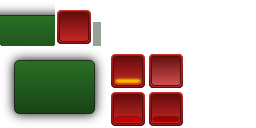
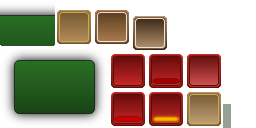
FEATURE: skinned ui for each board

diff --git a/GnuBackgammon/src/it/alcacoop/backgammon/layers/GameScreen.java b/GnuBackgammon/src/it/alcacoop/backgammon/layers/GameScreen.java
@@ -55,6 +55,7 @@ import com.badlogic.gdx.scenes.scene2d.ui.Image;
 import com.badlogic.gdx.scenes.scene2d.ui.ImageButton;
 import com.badlogic.gdx.scenes.scene2d.ui.ImageButton.ImageButtonStyle;
 import com.badlogic.gdx.scenes.scene2d.ui.Table;
+import com.badlogic.gdx.scenes.scene2d.ui.TextButton.TextButtonStyle;
 import com.badlogic.gdx.scenes.scene2d.utils.ClickListener;
 import com.badlogic.gdx.scenes.scene2d.utils.TextureRegionDrawable;
 
@@ -69,6 +70,7 @@ public class GameScreen implements Screen {
   private PlayerInfo pInfo[];
   private GameMenuPopup menuPopup;
   private ImageButton menu;
+  private TextureRegionDrawable wheel;
 
   
   public GameScreen(){
@@ -111,13 +113,14 @@ public class GameScreen implements Screen {
     stage.addActor(table);
     
     menuPopup = new GameMenuPopup(stage);
+    wheel = new TextureRegionDrawable(GnuBackgammon.atlas.findRegion("wheel")); 
     
     ImageButtonStyle ibs = new ImageButtonStyle(
         GnuBackgammon.skin.getDrawable("button"),
         GnuBackgammon.skin.getDrawable("button-down"),
         null,
-        new TextureRegionDrawable(GnuBackgammon.atlas.findRegion("wheel")),
-        new TextureRegionDrawable(GnuBackgammon.atlas.findRegion("wheel")),
+        wheel,
+        wheel,
         null
     );
     
@@ -239,11 +242,23 @@ public class GameScreen implements Screen {
     String sBoard = GnuBackgammon.Instance.appearencePrefs.getString("BOARD", "B1");
     GnuBackgammon.atlas.findRegion("board").setRegion(GnuBackgammon.atlas.findRegion(sBoard));
     GnuBackgammon.atlas.findRegion("boardbg").setRegion(GnuBackgammon.atlas.findRegion(sBoard+"-BG"));
+    board.rollBtn.setStyle(GnuBackgammon.skin.get("button-"+sBoard, TextButtonStyle.class));
+    board.doubleBtn.setStyle(GnuBackgammon.skin.get("button-"+sBoard, TextButtonStyle.class));
+    menuPopup.setButtonsStyle(sBoard);
     String sCs = GnuBackgammon.Instance.appearencePrefs.getString("CHECKERS", "CS1");
     System.out.println(sCs);
     GnuBackgammon.atlas.findRegion("cb").setRegion(GnuBackgammon.atlas.findRegion(sCs+"-B"));
     GnuBackgammon.atlas.findRegion("cw").setRegion(GnuBackgammon.atlas.findRegion(sCs+"-W"));
     GnuBackgammon.atlas.findRegion("ch").setRegion(GnuBackgammon.atlas.findRegion(sCs+"-H"));
+    ImageButtonStyle ibs = new ImageButtonStyle(
+        GnuBackgammon.skin.getDrawable("button"+sBoard.charAt(1)),
+        GnuBackgammon.skin.getDrawable("button"+sBoard.charAt(1)+"-down"),
+        null,
+        wheel,
+        wheel,
+        null
+    );
+    menu.setStyle(ibs);
   }
 
 }

diff --git a/GnuBackgammon/src/it/alcacoop/backgammon/ui/GameMenuPopup.java b/GnuBackgammon/src/it/alcacoop/backgammon/ui/GameMenuPopup.java
@@ -204,7 +204,6 @@ public final class GameMenuPopup extends Table {
   
   public Actor hit (float x, float y, boolean touchable) {
     Actor hit = super.hit(x, y, touchable);
-    
     if (visible) {
       if (hit != null) return hit;
       else {
@@ -214,8 +213,12 @@ public final class GameMenuPopup extends Table {
     } else {
       return hit;  
     }
-    
   }
 
-  
+  public void setButtonsStyle(String b) {
+    undo.setStyle(GnuBackgammon.skin.get("button-"+b, TextButtonStyle.class));
+    resign.setStyle(GnuBackgammon.skin.get("button-"+b, TextButtonStyle.class));
+    abandon.setStyle(GnuBackgammon.skin.get("button-"+b, TextButtonStyle.class));
+    options.setStyle(GnuBackgammon.skin.get("button-"+b, TextButtonStyle.class));
+  }
 }
